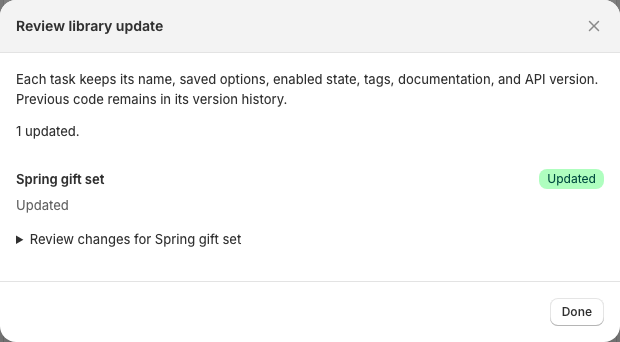
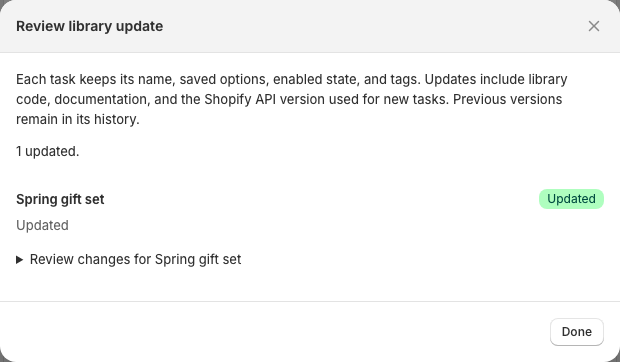
Explain library documentation and API version updates (#75)

diff --git a/resources/task-library/updating-tasks.md b/resources/task-library/updating-tasks.md
@@ -10,11 +10,15 @@ You can update one task, all installed copies of a particular library task, or a
 
 The screenshots below use an example store with several copies of **Maintain inventory for a product bundle**.
 
-## What an update preserves
+## What an update changes and preserves
 
-Each copy keeps its name, saved option values, enabled or disabled state, tags, documentation, and Shopify API version. Its previous code remains in its version history.
+Each copy keeps its name, saved option values, enabled or disabled state, and tags. Its previous code, documentation, and settings remain in its version history.
 
-The update replaces the library's code and related execution settings, such as subscriptions, JavaScript, sequencing settings, and preview definitions. Mechanic offers this update only when those parts of your copy match a known library version and the new version uses the same option fields.
+The update replaces the library's code, documentation, and related execution settings, such as subscriptions, JavaScript, sequencing settings, and preview definitions. It also sets the Shopify API version to the version Mechanic uses for newly installed tasks, so the updated code is previewed and saved using that version. Documentation and API version changes appear in the review alongside code changes.
+
+Mechanic offers this update only when your copy's code and execution settings match a known library version and the new version uses the same option fields. An update can also be available when the code is already current but the documentation or API version differs.
+
+If you've added your own notes to the task's documentation, review the documentation changes before updating. The update replaces those notes with the library's documentation; the previous documentation remains in version history.
 
 Changing option values or renaming a task doesn't by itself prevent an update. For example, if you have a separate copy of **Maintain inventory for a product bundle** for each bundle, each eligible copy keeps its own bundle settings when updated.
 
